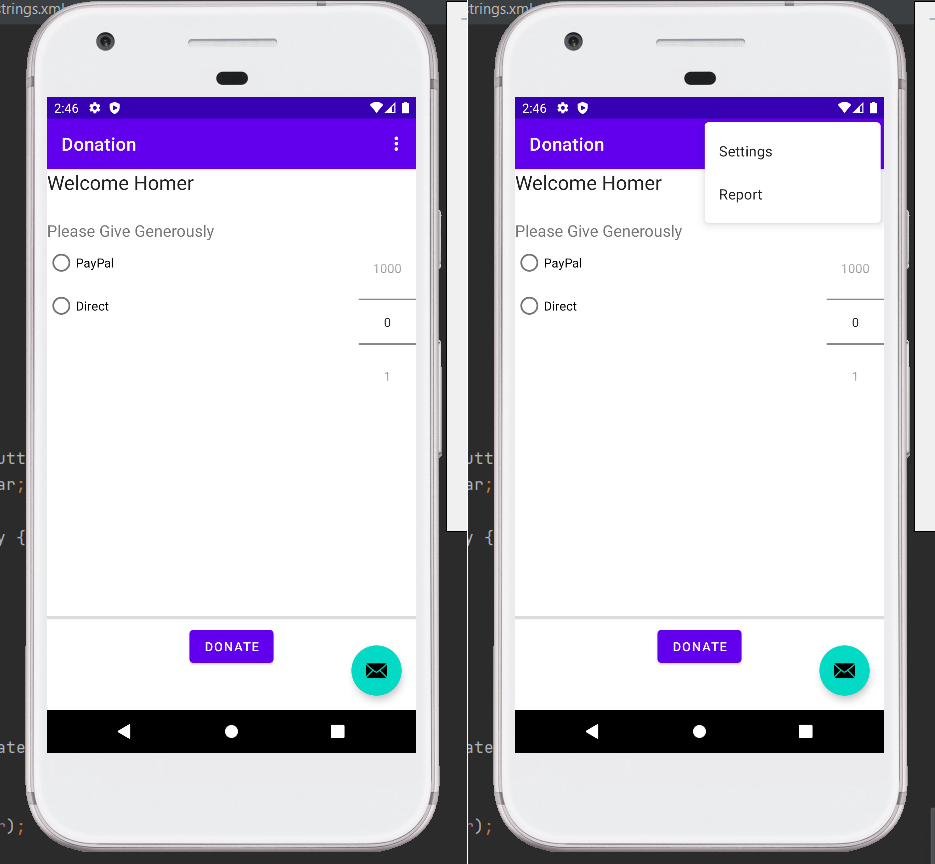
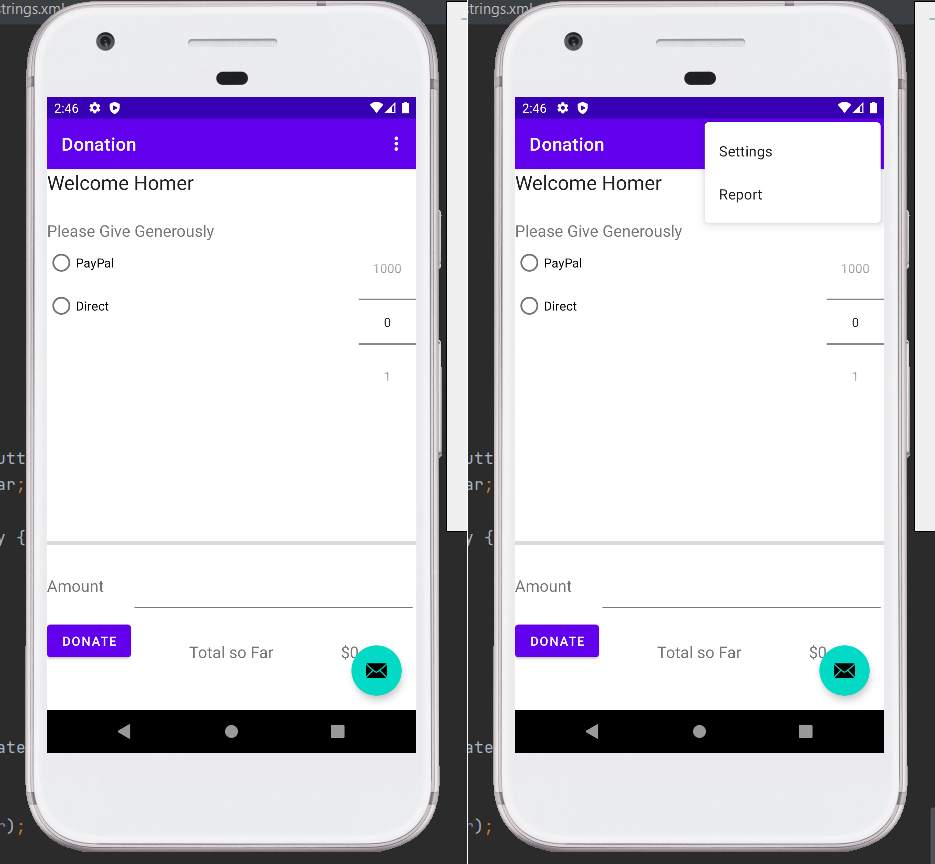
update new UI

diff --git a/app/src/main/java/ie/app/activities/Donate.java b/app/src/main/java/ie/app/activities/Donate.java
@@ -44,9 +44,9 @@ public class Donate extends Base {
         progressBar = findViewById(R.id.progressBar);
         progressBar.setMax(10000);
         amountPicker = findViewById(R.id.amountPicker);
-        // amountText = findViewById(R.id.paymentAmount);
-        // amountTotal = findViewById(R.id.totalSoFar);
-        // amountTotal.setText("$0");
+        amountText = findViewById(R.id.paymentAmount);
+        amountTotal = findViewById(R.id.totalSoFar);
+        amountTotal.setText("$0");
         amountPicker.setMinValue(0);
         amountPicker.setMaxValue(1000);
     }
